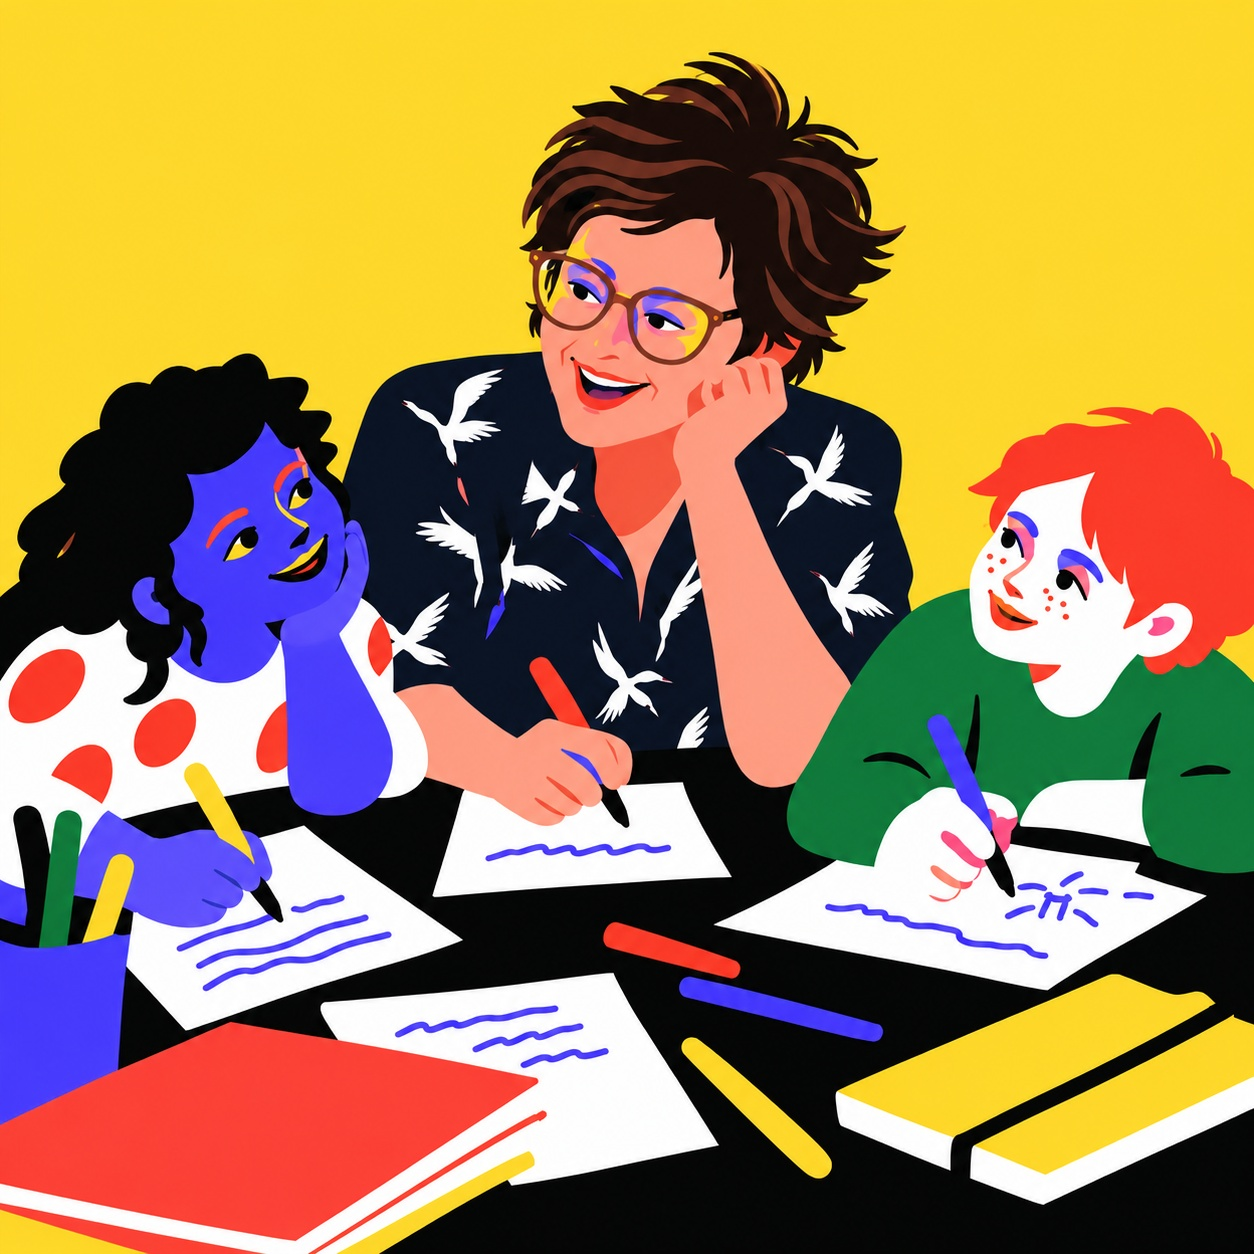
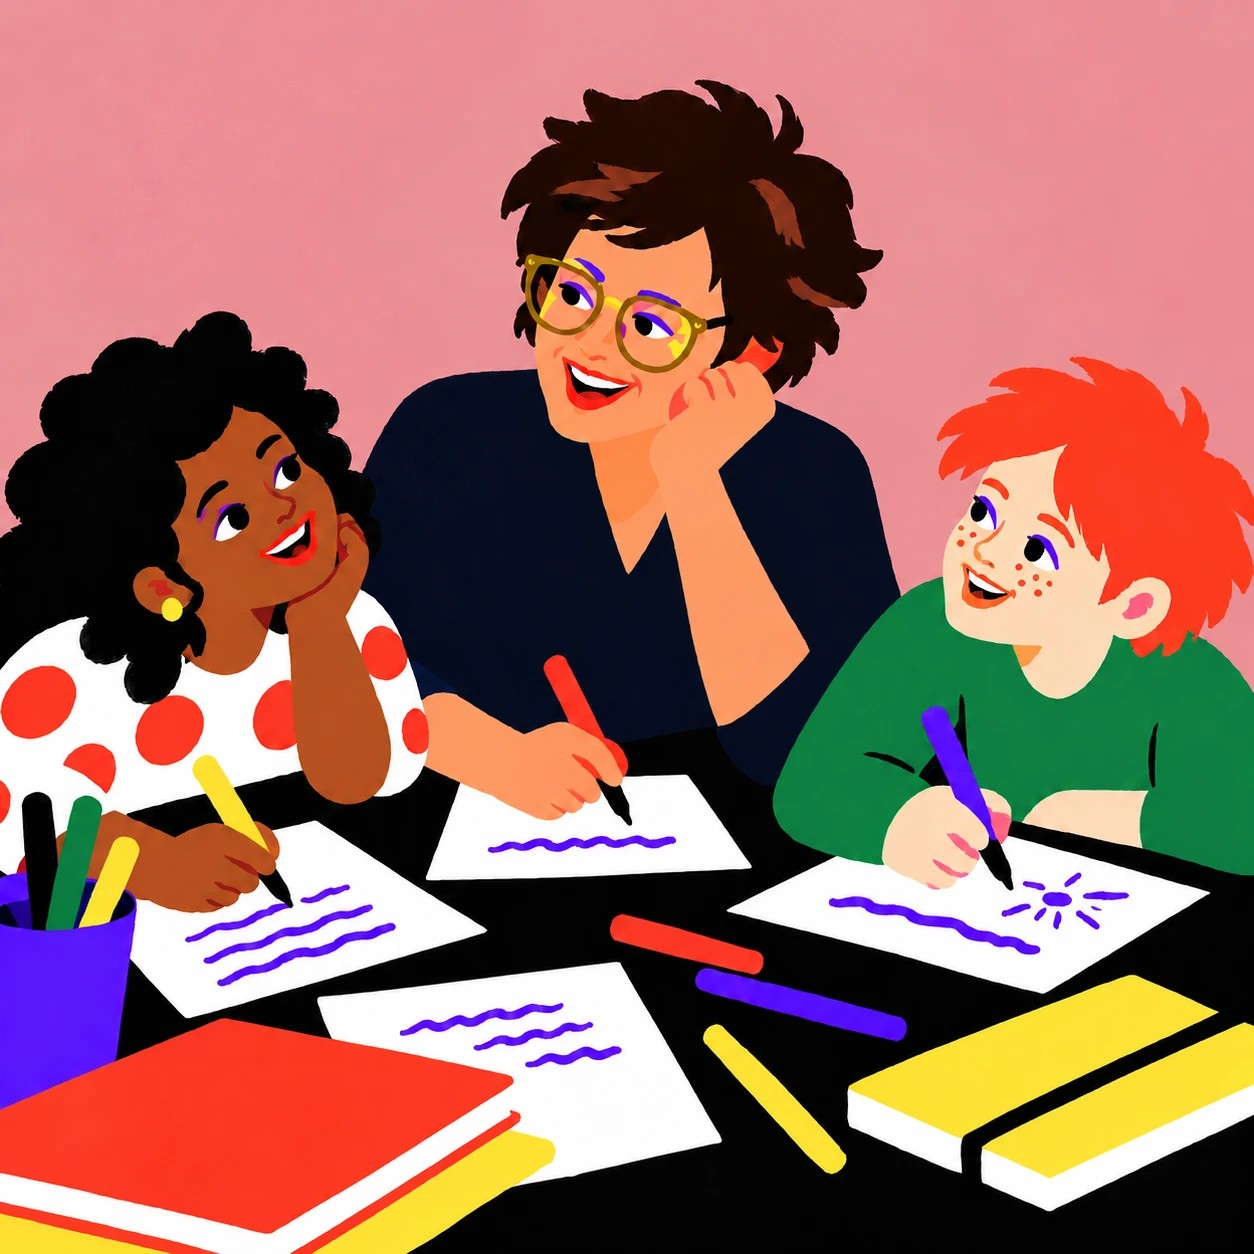
Nieuwe tegel-foto's (kinderen, organisaties, schrijfclub), kleuren hierop afgestemd, KrisKrasKlup tweede link, Schrijfclub-header en kopjevolgorde aangepast
Claude-Session: https://claude.ai/code/session_01Hr3XDf9knaHeFQAtQWigog

diff --git a/public/css/homepage.css b/public/css/homepage.css
@@ -8,8 +8,9 @@
   /* Overheersende kleur van elke tegel-illustratie, gebruikt voor de hero-
      band en de aanbod-tegels op de bijbehorende content-pagina. */
   --tile-schrijven: #fbcf1e;
-  --tile-kinderen: #f5c518;
-  --tile-organisaties: #3f47b0;
+  --tile-schrijfclub: #fbcf1e;
+  --tile-kinderen: #e39cb6;
+  --tile-organisaties: #1883ff;
   --tile-vakgenoten: #1e7a46;
   --tile-overmij: #8c82d6;
   --hover-donkergrijs: #46433d;
@@ -66,6 +67,10 @@ header.site-top {
   font-size: 1.75rem;
   font-weight: 750;
   letter-spacing: -0.01em;
+}
+
+.site-name--schrijfclub {
+  margin-left: 24px;
   color: var(--ink);
 }
 
@@ -575,7 +580,7 @@ main.home-main {
 }
 
 .tile-hero--schrijven {
-  background: var(--tile-schrijven);
+  background: var(--tile-schrijfclub);
   color: var(--ink);
   view-transition-name: hero-schrijven;
 }
@@ -811,10 +816,12 @@ main.home-main {
 .card-cta-right {
   display: flex;
   flex-direction: column;
+  height: 100%;
 }
 
 .card-cta-right .btn-dark {
   align-self: flex-end;
+  margin-top: auto;
 }
 
 .btn-dark {
@@ -851,7 +858,7 @@ main.home-main {
 }
 
 .offer-grid--schrijven .offer-card {
-  background: var(--tile-schrijven);
+  background: var(--tile-schrijfclub);
   color: var(--ink);
 }
 

diff --git a/templates/schrijven-voor-iedereen.html b/templates/schrijven-voor-iedereen.html
@@ -11,12 +11,12 @@
 <link href="https://fonts.googleapis.com/css2?family=Fraunces:opsz,SOFT,WONK,wght@9..144,0,1,600..900&family=Public+Sans:wght@400;500;600&family=IBM+Plex+Mono:wght@400;500&display=swap" rel="stylesheet">
 <link rel="stylesheet" href="css/homepage.css">
 </head>
-<body>
+<body class="page-schrijfclub">
 
 <header class="site-top">
   <div class="header-row">
     <div class="header-left">
-      <h1 class="site-name">Schrijfclub Wageningen</h1>
+      <h1 class="site-name site-name--schrijfclub">Schrijfclub Wageningen</h1>
     </div>
     <div class="header-right">
       <a class="nav-cta" href="contact.html">Aanmelden &amp; Contact</a>
@@ -28,8 +28,8 @@
 <section class="tile-hero tile-hero--schrijven tile-hero--compact">
   <div class="tile-hero-inner">
     <div class="tile-hero-media">
+      <img class="tile-hero-image" src="images/tegels/schrijfclub-wageningen.jpg" alt="">
       <span class="pijler">{{pijler}}</span>
-      <img class="tile-hero-image" src="images/tegels/schrijven-voor-iedereen.jpg" alt="">
       <p class="sub">
         {{subIntro}}
       </p>

diff --git a/sanity/schemaTypes/kinderenPage.ts b/sanity/schemaTypes/kinderenPage.ts
@@ -38,6 +38,8 @@ export default defineType({
             }),
             defineField({name: 'linkText', title: 'Linktekst (optioneel)', type: 'string'}),
             defineField({name: 'linkUrl', title: 'Link-URL (optioneel)', type: 'url'}),
+            defineField({name: 'linkText2', title: 'Tweede linktekst (optioneel)', type: 'string'}),
+            defineField({name: 'linkUrl2', title: 'Tweede link-URL (optioneel)', type: 'url'}),
           ],
           preview: {
             select: {title: 'title'},

diff --git a/templates/kinderen-en-scholen.html b/templates/kinderen-en-scholen.html
@@ -47,6 +47,11 @@
             &rarr; <a href="{{linkUrl}}">{{linkText}}</a>
           </p>
 {{/if}}
+{{#if linkUrl2}}
+          <p>
+            &rarr; <a href="{{linkUrl2}}">{{linkText2}}</a>
+          </p>
+{{/if}}
         </div>
 {{/each}}
     </div>
